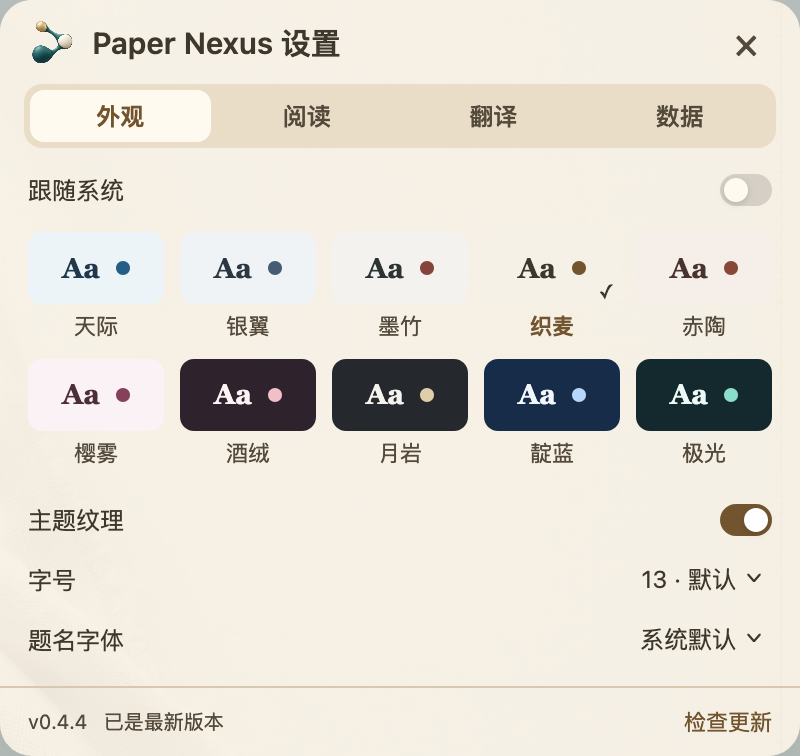
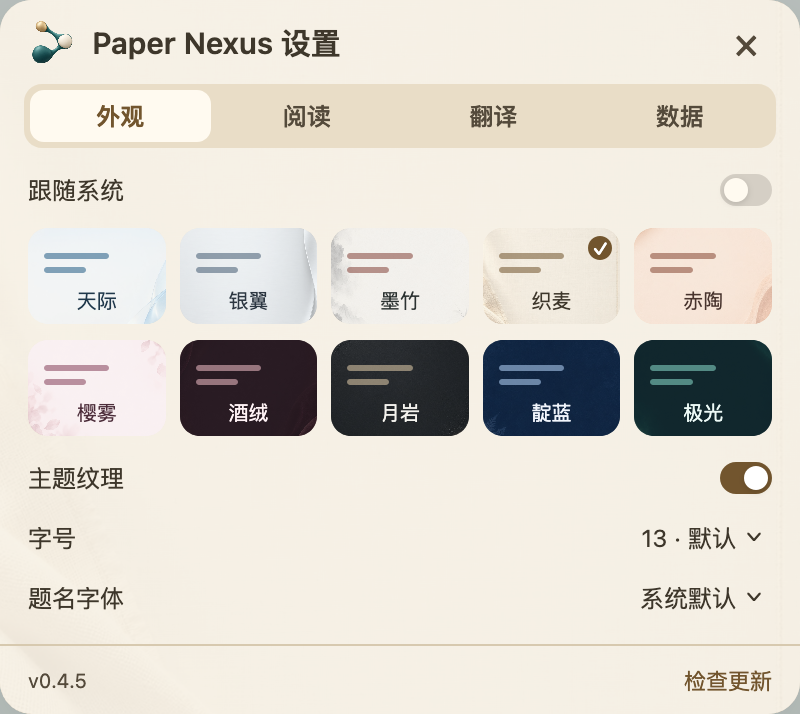
Match Paper Voice theme tiles with inset labels for 0.4.5

diff --git a/addon/style.js b/addon/style.js
@@ -193,12 +193,16 @@ button[data-cite-lens]:is(:hover,:focus-visible){background:var(--cl-soft);color
 .cl-settings .cl-setting-row{min-height:30px}.cl-settings .cl-setting-pair{display:block}
 .cl-settings .cl-dialog-body{min-height:0;max-height:calc(100vh - 155px)}
 .cl-settings-pane .cl-field{margin-top:6px}.cl-settings-pane .cl-actions{margin-top:8px}
-.cl-theme-grid{display:grid;grid-template-columns:repeat(5,minmax(0,1fr));gap:6px 8px;margin:6px 0 8px}
-.cl-settings button.cl-theme-choice{display:flex;flex-direction:column;gap:3px;padding:0 0 3px;background:transparent;font-size:11px;min-width:0;color:var(--cl-muted)}
-.cl-theme-swatch{position:relative;display:flex;align-items:center;justify-content:center;gap:8px;width:100%;height:36px;border-radius:7px;font:600 14px Georgia,serif}
-.cl-theme-swatch i{width:7px;height:7px;border-radius:50%;background:var(--preview-accent)}
-.cl-theme-choice[aria-pressed=true]{color:var(--cl-accent)!important;font-weight:600}.cl-theme-choice[aria-pressed=true] .cl-theme-swatch::after{content:'✓';position:absolute;right:3px;bottom:0;font:10px sans-serif}
-.cl-theme-choice:is(:hover,:focus-visible) .cl-theme-swatch{transform:translateY(-1px);filter:brightness(.96)}
+/* Theme tiles use the same composition and type scale as Paper Voice. */
+.cl-theme-grid{display:grid;grid-template-columns:repeat(5,minmax(0,1fr));gap:8px 7px;margin:4px 0 6px}
+.cl-settings button.cl-theme-choice{display:block;min-width:0;max-width:none;padding:0;border-radius:8px;background:transparent;font:400 10px/1.5 system-ui,sans-serif;text-align:center}
+.cl-theme-swatch{position:relative;display:flex;flex-direction:column;justify-content:center;gap:4px;width:100%;height:48px;padding:10px 8px 23px;border-radius:10px;isolation:isolate;overflow:hidden;background-size:cover;background-position:center}
+.cl-theme-swatch::before{content:"";position:absolute;inset:0;z-index:-1;background:var(--preview-mask);pointer-events:none}
+.cl-theme-swatch i{display:block;width:62%;height:3px;background:currentColor;border-radius:2px;opacity:.55}.cl-theme-swatch i+i{width:40%}
+.cl-theme-name{position:absolute;left:1px;right:1px;bottom:5px;text-align:center;font:400 10px/14px system-ui,sans-serif;color:var(--preview-text);white-space:nowrap;overflow:hidden;text-overflow:ellipsis}
+.cl-theme-choice[aria-pressed=true] .cl-theme-swatch::after{content:'✓';position:absolute;right:4px;top:4px;display:flex;align-items:center;justify-content:center;width:12px;height:12px;border-radius:50%;background:var(--preview-accent);color:var(--preview-ink);font:600 9px/1 system-ui,sans-serif}
+.cl-settings button.cl-theme-choice:is(:hover,:focus,:focus-visible){background:transparent}
+.cl-theme-choice:is(:hover,:focus-visible) .cl-theme-swatch{filter:brightness(1.04)}
 .cl-root,.cl-dialog,.cl-summary{background-color:var(--cl-bg);background-image:linear-gradient(var(--cl-mask),var(--cl-mask)),var(--cl-art);background-size:cover;background-position:center}
 .cl-header,.cl-dialog-header,.cl-dialog-footer,.cl-settings-tabs{position:relative}.cl-root .cl-header{background:transparent}
 .cl-inline-detail{margin:3px -8px 0}.cl-inline-detail .cl-card{padding:6px 8px;background:var(--cl-soft);border-radius:8px}.cl-list-row:has(.cl-inline-detail)>.cl-row-title{display:none}.cl-card .cl-kicker .cl-collapse-detail{display:inline-flex;margin:0 4px 0 0;padding:0;width:20px;min-height:20px;font-size:15px;vertical-align:middle;color:var(--cl-accent)}
@@ -206,5 +210,5 @@ button[data-cite-lens]:is(:hover,:focus-visible){background:var(--cl-soft);color
 .cl-row-title[aria-expanded=true]{color:var(--cl-accent)}
 @keyframes cl-pane-in{from{opacity:.5;transform:translateY(3px)}to{opacity:1;transform:translateY(0)}}
 @media(prefers-reduced-motion:reduce){.cl-settings-pane{animation:none}.cl-theme-swatch{transform:none!important}}
-@media(prefers-reduced-transparency:reduce){.cl-root,.cl-dialog,.cl-summary{background-image:none}}
+@media(prefers-reduced-transparency:reduce){.cl-root,.cl-dialog,.cl-summary,.cl-theme-swatch{background-image:none!important}}
 `;

diff --git a/addon/ui.js b/addon/ui.js
@@ -571,7 +571,7 @@ var CiteLensUI = {
     const system=this.el(doc,'input');system.type='checkbox';row(appearance,'跟随系统','themeSystem',system);
     const syncThemes=()=>{system.checked=!S.state.settings.theme||S.state.settings.theme==='system';const current=CiteLensThemes.resolve(S.state.settings.theme,doc.defaultView.matchMedia('(prefers-color-scheme: dark)').matches);for(const b of themeGrid.children)b.setAttribute('aria-pressed',String(!system.checked&&b.dataset.themeChoice===current.id));};
     system.addEventListener('change',async()=>{S.state.settings.theme=system.checked?'system':CiteLensThemes.resolve('system',doc.defaultView.matchMedia('(prefers-color-scheme: dark)').matches).id;await persist();syncThemes();});
-    for(const t of CiteLensThemes.themes){const b=this.button(doc,'',async()=>{S.state.settings.theme=t.id;await persist();syncThemes();});b.className='cl-theme-choice';b.dataset.themeChoice=t.id;b.setAttribute('aria-label',t.name+'主题');const swatch=this.el(doc,'span',null,'cl-theme-swatch');swatch.style.background=t.paper;swatch.style.color=t.ink;swatch.style.setProperty('--preview-accent',t.accent);swatch.append(this.el(doc,'span','Aa'),this.el(doc,'i'));b.append(swatch,this.el(doc,'span',t.name));themeGrid.append(b);}appearance.append(themeGrid);syncThemes();
+    for(const t of CiteLensThemes.themes){const b=this.button(doc,'',async()=>{S.state.settings.theme=t.id;await persist();syncThemes();});b.className='cl-theme-choice';b.dataset.themeChoice=t.id;b.setAttribute('aria-label',t.name+'主题');const swatch=this.el(doc,'span',null,'cl-theme-swatch');swatch.style.backgroundColor=t.paper;swatch.style.backgroundImage='url("'+CiteLens.assetURI+'themes/'+t.art+'")';swatch.style.color=t.accent;swatch.style.setProperty('--preview-mask',t.paper+'99');swatch.style.setProperty('--preview-accent',t.accent);swatch.style.setProperty('--preview-text',t.ink);swatch.style.setProperty('--preview-ink',t.dark?t.paper:'#ffffff');const first=this.el(doc,'i'),second=this.el(doc,'i');first.setAttribute('aria-hidden','true');second.setAttribute('aria-hidden','true');swatch.append(first,second,this.el(doc,'span',t.name,'cl-theme-name'));b.append(swatch);themeGrid.append(b);}appearance.append(themeGrid);syncThemes();
     toggle(appearance,'主题纹理','themeArtwork',!!S.state.settings.themeArtwork);
 
     select(appearance,'字号','fontSize',[13,12,14,15,16].map(n=>[String(n),n===13?'13 · 默认':String(n)]));

diff --git a/docs/VALIDATION.md b/docs/VALIDATION.md
@@ -1,34 +1,21 @@
-# Paper Nexus 0.4.4 验证记录
+# Paper Nexus 0.4.5 验证记录
 
 2026-10-05 · macOS Apple Silicon · Zotero 10.0.6-beta.1+77a1c03f7。
 
-本次发布通过 **125 项自动化测试、31 套桌面测试，共 561 项桌面检查**。桌面操作使用隔离资料库；每套结果与本版插件文件摘要绑定。测试通过不代表所有 PDF 和网络环境均无错误。
+本版是主题选择色块的局部界面修订：名称移入纹理色块，移除 Aa，使用两条示意线与右上角小对勾，参照 Paper Voice 的同一布局。
 
-## 本版核验
+## 本轮验证
 
-- 主题覆盖菜单、摘要、保存、设置与本地网络；十套配色正文／次要文字在基础表面的对比度至少 4.5:1。旧版主题偏好映射、资源解码、监听器卸载、子窗口取消与异常移除清理已检查。
-- 设置、保存、文献清单、网络、引文、摘要和菜单逐页检查：统一紧凑字号／行高、无外边框、隐藏滚动条、十套主题和系统模式、纸色／深色实机界面、小窗口和大字号。
-- 更新状态与按钮同排；三枚引文操作图标同尺寸；按四字标签收窄的菜单；鼠标和方向键共用一个活动项；菜单无蓝色焦点框；多文献悬停过渡。
-- 期刊论文隐藏出版社，包括延迟补全路径；图书与章节保留出版社。
-- 真实 Slonacker 1897、Wood 1917、Walls 1942 连续书籍引文验证；小窗口下按钮和长内容仍可访问。
-- 四类直接设置、行内展开文献、上层界面暂存与恢复、跨文档配色同步；文献清单 Esc 先收起详情再关闭，与焦点恢复；已有条目位置；保存／去重／新建文献夹；错误输入、候选过滤和延迟响应隔离。
-- 摘要无标题栏、两端对齐、最大侧宽 440 px；鼠标离开题名后淡出，移入摘要保持，真实鼠标按下／松开验证重试不移除面板。保存窗口无重复标题，文献库／文献夹同行。
-- 上标字形重建核验 `RPB1²⁶` 的两个数字，以及完整 `SPO11²,⁵⁹`、多篇列表／区间、`PRDM9⁶⁰`、`Bowtie2⁷⁹` 和 `ggplot2⁹²`，排除作者单位编号。
-- 摘要翻译的原文切换、过时响应隔离、失败保留原文、可选引擎／目标语种、密钥隔离与流式协议。腾讯、微软现场返回中文；Google 在当前网络不可用。大模型以模拟请求检验协议与密钥安全，未消耗用户真实模型额度，未做翻译语义准确率基准。
-- 自动／手动更新、失败重试、20 秒检查和 120 秒安装等待、卸载清理与最终 XPI 安装。
+- 125 项公开自动化测试通过。
+- 4 套针对本次改动的原生桌面测试，共 123 项检查通过，均使用隔离文献库，并绑定当前插件文件摘要。
+- 十个主题名称全部位于色块内部；没有外置标签或 Aa；纹理预览正常加载，48 px 色块、名称字号／位置与选中标记按参考实现核对。
+- 银翼、织麦及靛蓝原生截图检查；320 px 窄窗口与 16 px 阅读字号下文字未溢出，设置页脚仍可访问。
+- 主题切换、唯一选中状态、无窗口边框、滚动访问、更新反馈、保存窗口和最终 XPI 安装回归通过。
 
-## 真实资料与范围
-
-PDF 回归包括 Bringmann 2018（36 页）、Ou 2013（12 页，10.1371/journal.pone.0059247）、Alexander 2023（20 页，10.1038/s41467-023-37408-w），包含 24 组重点引文和原生标记遍历。这不是全语料人工金标准的准确率或召回率。
-
-PubMed 检查 PMID 26658507、23555005、33208928；PMC 检查 PMC3598659。本轮现场查询未填写 API key，取得摘要、作者与文章标识符。凭据路由用合成 key 测试；私人密钥不进入源码或发布包。
+本次未重复联网摘要与整套引文语料回归。这些功能代码未变；上一版的完整范围和边界见 [0.4.4 验证记录](https://github.com/JunyanKang/paper-nexus/blob/v0.4.4/docs/VALIDATION.md)。本轮检查不代表所有平台、PDF 或网络环境均无错误。
 
 ## 公开更新
 
-已从真实正式版 0.4.0，分别通过 Zotero 后台自动更新和设置按钮手动更新到公开 0.4.4。两次安装均核对 SHA512，保留清单和设置；本轮未使用改版本号的 QA 种子。
+公开更新通道在发布后追加验证。
 
[1 lines of base64/hex data omitted]
-
-## 限制
-
-其他平台、其他 Zotero 版本和 EPUB／网页阅读器未实机认证。未逐刊向 Clarivate 核验指标；摘要可用性取决于来源。作者同名未消歧，全文搜索未包含 OCR 或语义搜索。本地网络只覆盖已读取参考文献的来源。详细原始日志与临时截图不随产品发布。
[1 lines of base64/hex data omitted]
